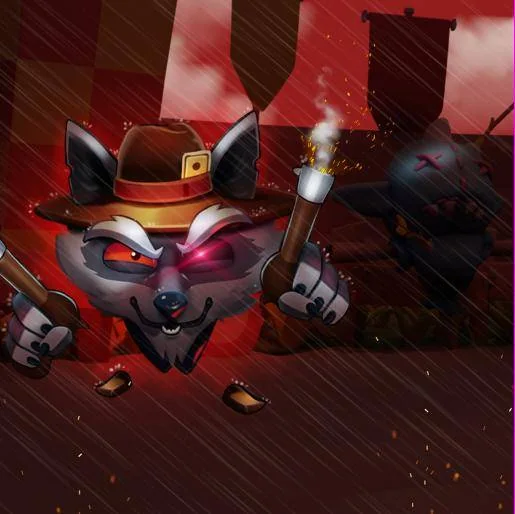
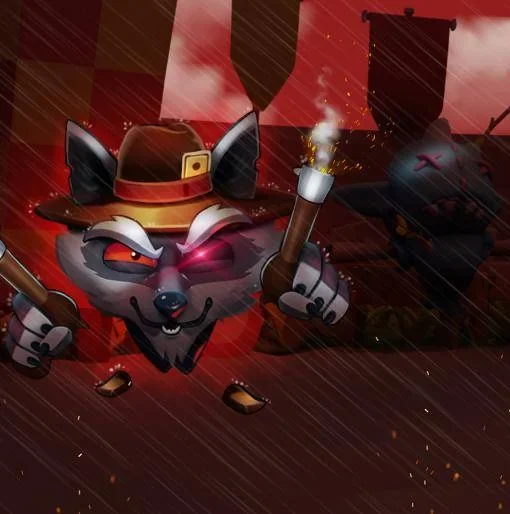
Drag-only sliders with label buttons, names on Review Layer comments, Bloodbite stripe removed
- Before/after sliders drag with a mouse, finger or pen; Before/After (or 2024/2026) buttons show a version in full
- Review Layer: a part on reviewers' names, with a close-up of the newest overlay (demo notes only)
- Bloodbite picture cropped to remove the pink stripe on the right edge

diff --git a/assets/js/content.js b/assets/js/content.js
@@ -102,7 +102,7 @@ window.CONTENT = {
       'case.role': 'Role', 'case.when': 'When', 'case.platform': 'Platform', 'case.context': 'Context',
       'case.problem': 'Context', 'case.moves': 'What I did', 'case.outcome': 'Result', 'case.learned': 'Notes',
       'case.live': 'Open the live version', 'case.evolution': 'Earlier version',
-      'case.before': 'Before', 'case.after': 'After', 'case.compare': 'Drag to compare before and after', 'case.compareHover': 'Move your mouse across the image to compare before and after',
+      'case.before': 'Before', 'case.after': 'After', 'case.compare': 'Drag to compare, or press a label to see that version in full',
       'case.film': 'Pick a frame to jump to that moment in the video', 'case.frame': 'Frame', 'case.play': 'Play the video', 'case.videoTitle': 'Knomee product video', 'lightbox.close': 'Close',
       'case.end': 'End',
       'case.measured': 'Measured', 'case.projected': 'Projected', 'case.estimated': 'Estimated',
@@ -203,7 +203,7 @@ window.CONTENT = {
       'case.role': 'Função', 'case.when': 'Período', 'case.platform': 'Plataforma', 'case.context': 'Contexto',
       'case.problem': 'Contexto', 'case.moves': 'O que eu fiz', 'case.outcome': 'Resultado', 'case.learned': 'Observações',
       'case.live': 'Ver no ar', 'case.evolution': 'Versão anterior',
-      'case.before': 'Antes', 'case.after': 'Depois', 'case.compare': 'Arraste para comparar o antes e o depois', 'case.compareHover': 'Passe o mouse sobre a imagem para comparar o antes e o depois',
+      'case.before': 'Antes', 'case.after': 'Depois', 'case.compare': 'Arraste para comparar, ou toque num rótulo para ver aquela versão inteira',
       'case.film': 'Escolha um frame para pular até esse momento do vídeo', 'case.frame': 'Frame', 'case.play': 'Assistir ao vídeo', 'case.videoTitle': 'Vídeo do produto da Knomee', 'lightbox.close': 'Fechar',
       'case.end': 'Fim',
       'case.measured': 'Medido', 'case.projected': 'Projetado', 'case.estimated': 'Estimado',
@@ -433,6 +433,11 @@ window.CONTENT = {
         {
           title: { en: 'Comments tied to screens', pt: 'Comentários ligados às telas' },
           body: { en: 'Each comment belongs to the screen where it was left and can reopen that exact step of a flow. Every project keeps its own comments, and the tool warns you if two sites are sharing an ID by mistake.', pt: 'Cada comentário fica vinculado à tela onde foi deixado e pode reabrir exatamente aquele passo do fluxo. Cada projeto guarda os próprios comentários, e a ferramenta avisa se dois sites estiverem usando o mesmo ID por engano.' }
+        },
+        {
+          title: { en: 'Names on comments', pt: 'Nomes nos comentários' },
+          body: { en: 'Reviewers type their name once, and it signs every note they leave on every prototype, so a thread shows who said what. The name is added to each note when it’s written, so changing it later doesn’t rewrite older notes.', pt: 'Quem revisa digita o nome uma vez, e ele assina cada nota em todos os protótipos, então a thread mostra quem disse o quê. O nome entra em cada nota no momento em que ela é escrita, então trocar o nome depois não reescreve as notas antigas.' },
+          img: ['assets/img/k-overlay-names.webp'], kind: 'wide'
         }
       ],
       metrics: [

diff --git a/assets/js/app.js b/assets/js/app.js
@@ -344,7 +344,7 @@
     return '<img src="' + src + '" alt="' + esc(alt || '') + '" loading="lazy"' + (cls ? ' class="' + cls + '"' : '') + '>';
   }
 
-  function compareHint() { return '<p class="compare-hint">' + esc(t(finePointer.matches ? 'case.compareHover' : 'case.compare')) + '</p>'; }
+  function compareHint() { return '<p class="compare-hint">' + esc(t('case.compare')) + '</p>'; }
   function moveMedia(m, c) {
     if (m.compare) {
       var tb = m.tags ? m.tags[0] : t('case.before'), ta = m.tags ? m.tags[1] : t('case.after');
@@ -353,7 +353,7 @@
         '<div class="cmp-after">' + imgTag(m.compare[1], ta + ': ' + L(m.title)) + '</div>' +
         '<input type="range" min="0" max="100" value="50" aria-label="' + esc(t('case.compare')) + '">' +
         '<span class="cmp-line" aria-hidden="true"></span>' +
-        '<span class="cmp-tag before">' + esc(tb) + '</span><span class="cmp-tag after">' + esc(ta) + '</span>' +
+        '<button type="button" class="cmp-tag before" aria-pressed="false">' + esc(tb) + '</button><button type="button" class="cmp-tag after" aria-pressed="false">' + esc(ta) + '</button>' +
         '</div>' + (m.noHint ? '' : compareHint()) + '</div>';
     }
     if (m.film) {
@@ -424,13 +424,24 @@
 
   function wireSheet() {
     $$('.compare', sheetBody).forEach(function (cmp) {
-      var input = $('input', cmp);
-      function set(v) { v = Math.max(0, Math.min(100, v)); input.value = v; cmp.style.setProperty('--pos', v + '%'); }
+      var input = $('input', cmp), tagB = $('.cmp-tag.before', cmp), tagA = $('.cmp-tag.after', cmp);
+      function set(v, glide) {
+        v = Math.max(0, Math.min(100, v)); input.value = v;
+        cmp.classList.toggle('is-gliding', !!glide && !reduceMotion.matches);
+        cmp.style.setProperty('--pos', v + '%');
+        tagB.setAttribute('aria-pressed', String(v >= 100)); tagA.setAttribute('aria-pressed', String(v <= 0));
+      }
       function follow(e) { var r = cmp.getBoundingClientRect(); set((e.clientX - r.left) / r.width * 100); }
       input.addEventListener('input', function () { set(+input.value); });
-      // a mouse moves the divider just by hovering; touch and pen drag it (vertical swipes still scroll)
-      cmp.addEventListener('pointermove', function (e) { if (e.pointerType === 'mouse' || cmp.hasPointerCapture(e.pointerId)) follow(e); });
-      cmp.addEventListener('pointerdown', function (e) { if (e.pointerType !== 'mouse') { cmp.setPointerCapture(e.pointerId); follow(e); } });
+      // drag the divider with a mouse, a finger or a pen (vertical swipes still scroll on touch)
+      cmp.addEventListener('pointerdown', function (e) {
+        if (e.button > 0 || e.target.closest('.cmp-tag')) return;
+        cmp.setPointerCapture(e.pointerId); follow(e);
+      });
+      cmp.addEventListener('pointermove', function (e) { if (cmp.hasPointerCapture(e.pointerId)) follow(e); });
+      // the labels show one version whole: Before slides the divider all the way right, After all the way left
+      tagB.addEventListener('click', function () { set(100, true); });
+      tagA.addEventListener('click', function () { set(0, true); });
     });
     $$('[data-film]', sheetBody).forEach(function (film) {
       var c = caseById(sheet.current);

diff --git a/assets/css/main.css b/assets/css/main.css
@@ -756,7 +756,12 @@ kbd {
 /* the range input stays for keyboard use; pointers are handled on .compare */
 .compare input { position: absolute; inset: 0; width: 100%; height: 100%; opacity: 0; margin: 0; pointer-events: none; }
 .compare input:focus-visible + .cmp-line::after { outline: 3px solid var(--accent); outline-offset: 2px; }
-.cmp-tag { position: absolute; top: 10px; font-family: var(--f-mono); font-size: .64rem; font-weight: 700; letter-spacing: .08em; text-transform: uppercase; padding: 3px 7px; border-radius: 5px; background: rgba(10, 10, 20, .7); color: #fff; pointer-events: none; }
+.cmp-tag { position: absolute; top: 10px; font-family: var(--f-mono); font-size: .64rem; font-weight: 700; letter-spacing: .08em; text-transform: uppercase; padding: 5px 9px; border-radius: 6px; border: 0; background: rgba(10, 10, 20, .7); color: #fff; cursor: pointer; transition: background-color .2s, color .2s; }
+.cmp-tag:hover { background: rgba(10, 10, 20, .88); }
+.cmp-tag[aria-pressed="true"] { background: var(--note); color: var(--note-ink); }
+.cmp-tag:focus-visible { outline: 3px solid var(--accent); outline-offset: 2px; }
+.compare.is-gliding .cmp-after { transition: clip-path .45s var(--ease-out); }
+.compare.is-gliding .cmp-line { transition: left .45s var(--ease-out); }
 .cmp-tag.before { left: 10px; } .cmp-tag.after { right: 10px; }
 .compare-wrap { display: grid; gap: 8px; justify-items: start; }
 .compare-hint { font-size: .74rem; color: var(--muted); font-family: var(--f-mono); }
